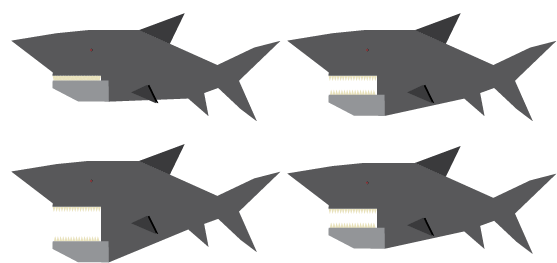
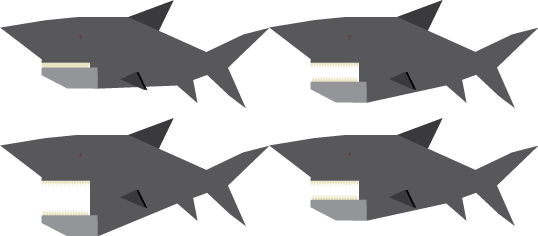
varios

diff --git a/lib/components/player_component.dart b/lib/components/player_component.dart
@@ -1,3 +1,5 @@
+import 'dart:math' as math;
+
 import 'package:flutter/services.dart';
 
 import 'package:flame/collisions.dart';
@@ -12,22 +14,13 @@ import 'package:parallax06/main.dart';
 class PlayerComponent extends Character {
   MyGame game;
 
-  // bool blockPlayer = false;
-  // double blockPlayerTime = 2.0;
-  // double blockPlayerElapseTime = 0;
-
-  // bool inviciblePlayer = false;
-  // double inviciblePlayerTime = 8.0;
-  // double inviciblePlayerElapseTime = 0;
-
   PlayerComponent({required this.game}) : super() {
     anchor = Anchor.center;
     debugMode = true;
     position = Vector2(spriteSheetWidth, spriteSheetHeight);
     size = Vector2(spriteSheetWidth, spriteSheetHeight);
+    // scale = Vector2.all(1.5);
   }
-
-  int count = 0;
 
   @override
   Future<void>? onLoad() async {
@@ -38,10 +31,12 @@ class PlayerComponent extends Character {
 
     // init animation
     idleAnimation = spriteSheet.createAnimationByLimit(
+        xInit: 1, yInit: 0, step: 1, sizeX: 2, stepTime: .08);
+    chewAnimation = spriteSheet.createAnimationByLimit(
         xInit: 0, yInit: 0, step: 4, sizeX: 2, stepTime: .08);
     // end animation
 
-    animation = idleAnimation;
+    animation = chewAnimation;
 
     body = RectangleHitbox(
         size: Vector2(spriteSheetWidth / 4 - 70, spriteSheetHeight / 4),
@@ -63,15 +58,11 @@ class PlayerComponent extends Character {
   bool onKeyEvent(RawKeyEvent event, Set<LogicalKeyboardKey> keysPressed) {
     if (keysPressed.isEmpty) {
       movementType = MovementType.idle;
-      // isMoving = false;
     }
-    // else {
-    //   isMoving = true;
-    // }
 
-    //**** RIGHT
     if (keysPressed.contains(LogicalKeyboardKey.arrowRight) ||
         keysPressed.contains(LogicalKeyboardKey.keyD)) {
+      //**** RIGHT
       movementType = MovementType.right;
     } else if (keysPressed.contains(LogicalKeyboardKey.arrowLeft) || //**** LEFT
         keysPressed.contains(LogicalKeyboardKey.keyA)) {
@@ -85,33 +76,35 @@ class PlayerComponent extends Character {
       movementType = MovementType.down;
     }
 
+    if (keysPressed.contains(LogicalKeyboardKey.keyR)) {
+      //**** R
+      movementType = MovementType.rotate;
+    }
+
     return true;
   }
 
+  @override
+  void update(double dt) {
+    super.update(dt);
+
+    movePlayer(dt);
+  }
+
   void movePlayer(double delta) {
-    // if (movementType == playerCollisionDirection) {
-    //   return;
-    // }
-
-    // if (playerCollisionDirection.contains(movementType)) {
-    //   return;
-    // }
-
     switch (movementType) {
       case MovementType.right:
       case MovementType.left:
-        if (position.x < 500 - size.x) {
-          position.add(Vector2(
-              delta * speed * (movementType == MovementType.left ? -1 : 1), 0));
-        }
-
+        position.add(Vector2(
+            delta * speed * (movementType == MovementType.left ? -1 : 1), 0));
         break;
       case MovementType.up:
       case MovementType.down:
-        if (position.y > 0) {
-          position.add(Vector2(
-              0, delta * speed * (movementType == MovementType.up ? -1 : 1)));
-        }
+        position.add(Vector2(
+            0, delta * speed * (movementType == MovementType.up ? -1 : 1)));
+        break;
+      case MovementType.rotate:
+        angle += math.pi * 1 / 2 * delta;
         break;
       case MovementType.idle:
         break;

diff --git a/lib/components/character.dart b/lib/components/character.dart
@@ -1,34 +1,19 @@
 import 'package:flame/collisions.dart';
 import 'package:flame/components.dart';
 
-enum MovementType { idle, right, left, up, down }
+enum MovementType { idle, right, left, up, down, rotate }
 
 class Character extends SpriteAnimationComponent
     with KeyboardHandler, CollisionCallbacks {
-  int animationIndex = 0;
-
   MovementType movementType = MovementType.idle;
 
-  double gravity = 15;
   Vector2 velocity = Vector2(0, 0);
 
-  double speed = 80;
+  double speed = 160;
 
-  final double spriteSheetWidth = 278.5, spriteSheetHeight = 131.5;
-  final double jumpForceUp = 600, jumpForceSide = 100, jumpForceXY = 20;
+  final double spriteSheetWidth = 269, spriteSheetHeight = 118;
 
-  bool inGround = false,
-      jumpUp = false,
-      right = true,
-      collisionXRight = false,
-      collisionXLeft = false;
+  late SpriteAnimation chewAnimation, idleAnimation;
 
-  late SpriteAnimation deadAnimation,
-      idleAnimation,
-      jumpAnimation,
-      runAnimation,
-      walkAnimation,
-      walkSlowAnimation;
-
-  late RectangleHitbox body, foot;
+  late RectangleHitbox body;
 }

diff --git a/lib/main.dart b/lib/main.dart
@@ -2,11 +2,12 @@ import 'package:flutter/material.dart';
 
 // import 'package:flame/components.dart';
 import 'package:flame/game.dart';
+import 'package:flame/input.dart';
 // import 'package:flame/parallax.dart';
 import 'package:parallax06/background/candy_background.dart';
 import 'package:parallax06/components/player_component.dart';
 
-class MyGame extends FlameGame {
+class MyGame extends FlameGame with HasKeyboardHandlerComponents {
   @override
   void onLoad() async {
     super.onLoad();
